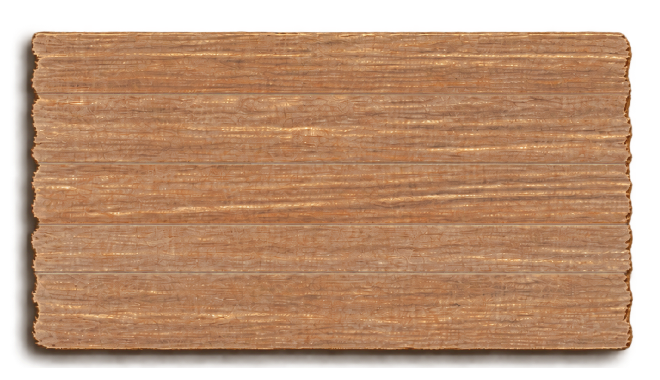
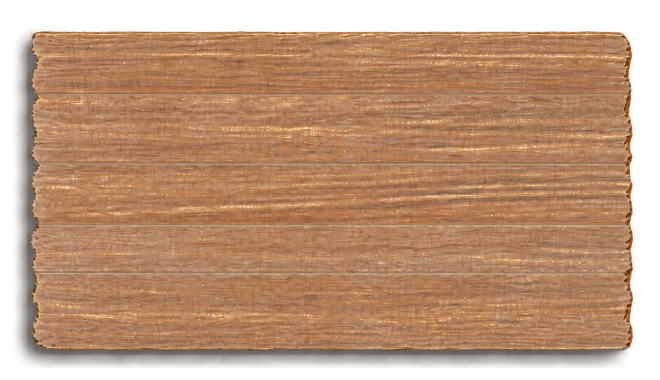
Updated tb300dpi-g.png image file and fixed 'enter' in input box

Changed region(s): [[0.0303, 0.0868, 0.9394, 0.9553]]

diff --git a/src/index.ts b/src/index.ts
@@ -167,6 +167,9 @@ if (lookupElement) {
             } else {
                 resetPageBackgroundColor();
                 previewController.clear();
+                if (addToDecklistButton) {
+                    addToDecklistButton.disabled = previewController.currentCard === null;
+                }
                 await updateStatusSummary();
             }
         }, 300); // 300ms debounce
@@ -188,6 +191,9 @@ if (lookupElement) {
             lookupElement.value = "";
             resetPageBackgroundColor();
             previewController.clear();
+            if (addToDecklistButton) {
+                addToDecklistButton.disabled = previewController.currentCard === null;
+            }
             updateStatusSummary();
         }
     });
